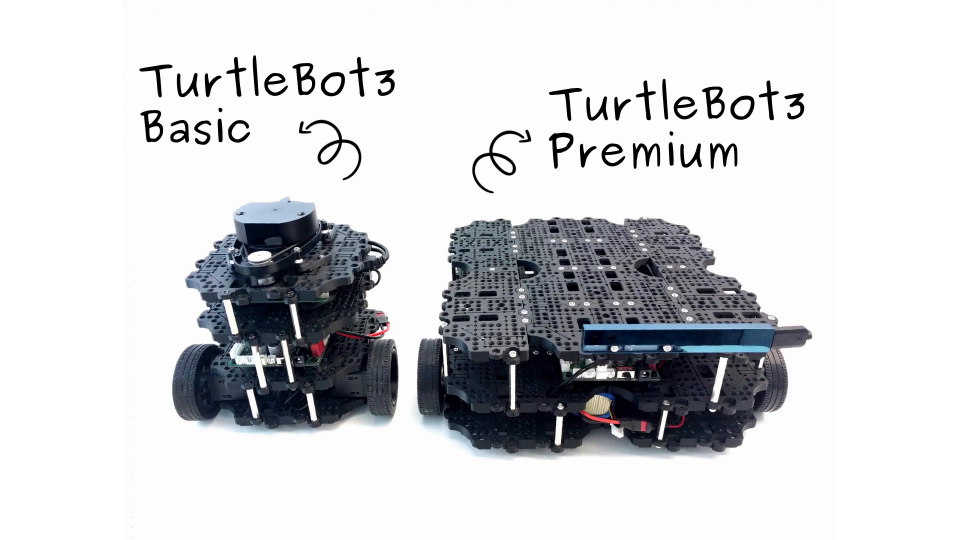
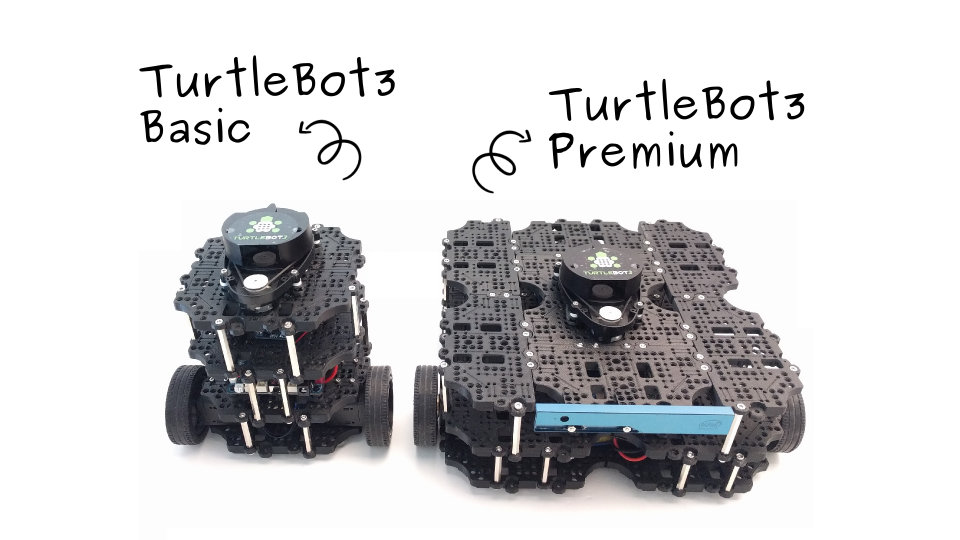
added turtlebot3 rendering image and modified the pictures

Changed region(s): [[0.1562, 0.3556, 0.8438, 0.9481]]

diff --git a/docs/source/hardware.rst b/docs/source/hardware.rst
@@ -1,7 +1,7 @@
 Hardware Setup
 ==============
 
-.. image:: _static/hardware/turtlebot3_models.png
+.. image:: _static/hardware/turtlebot3_models_rendering.png
 
 Components
 ----------
